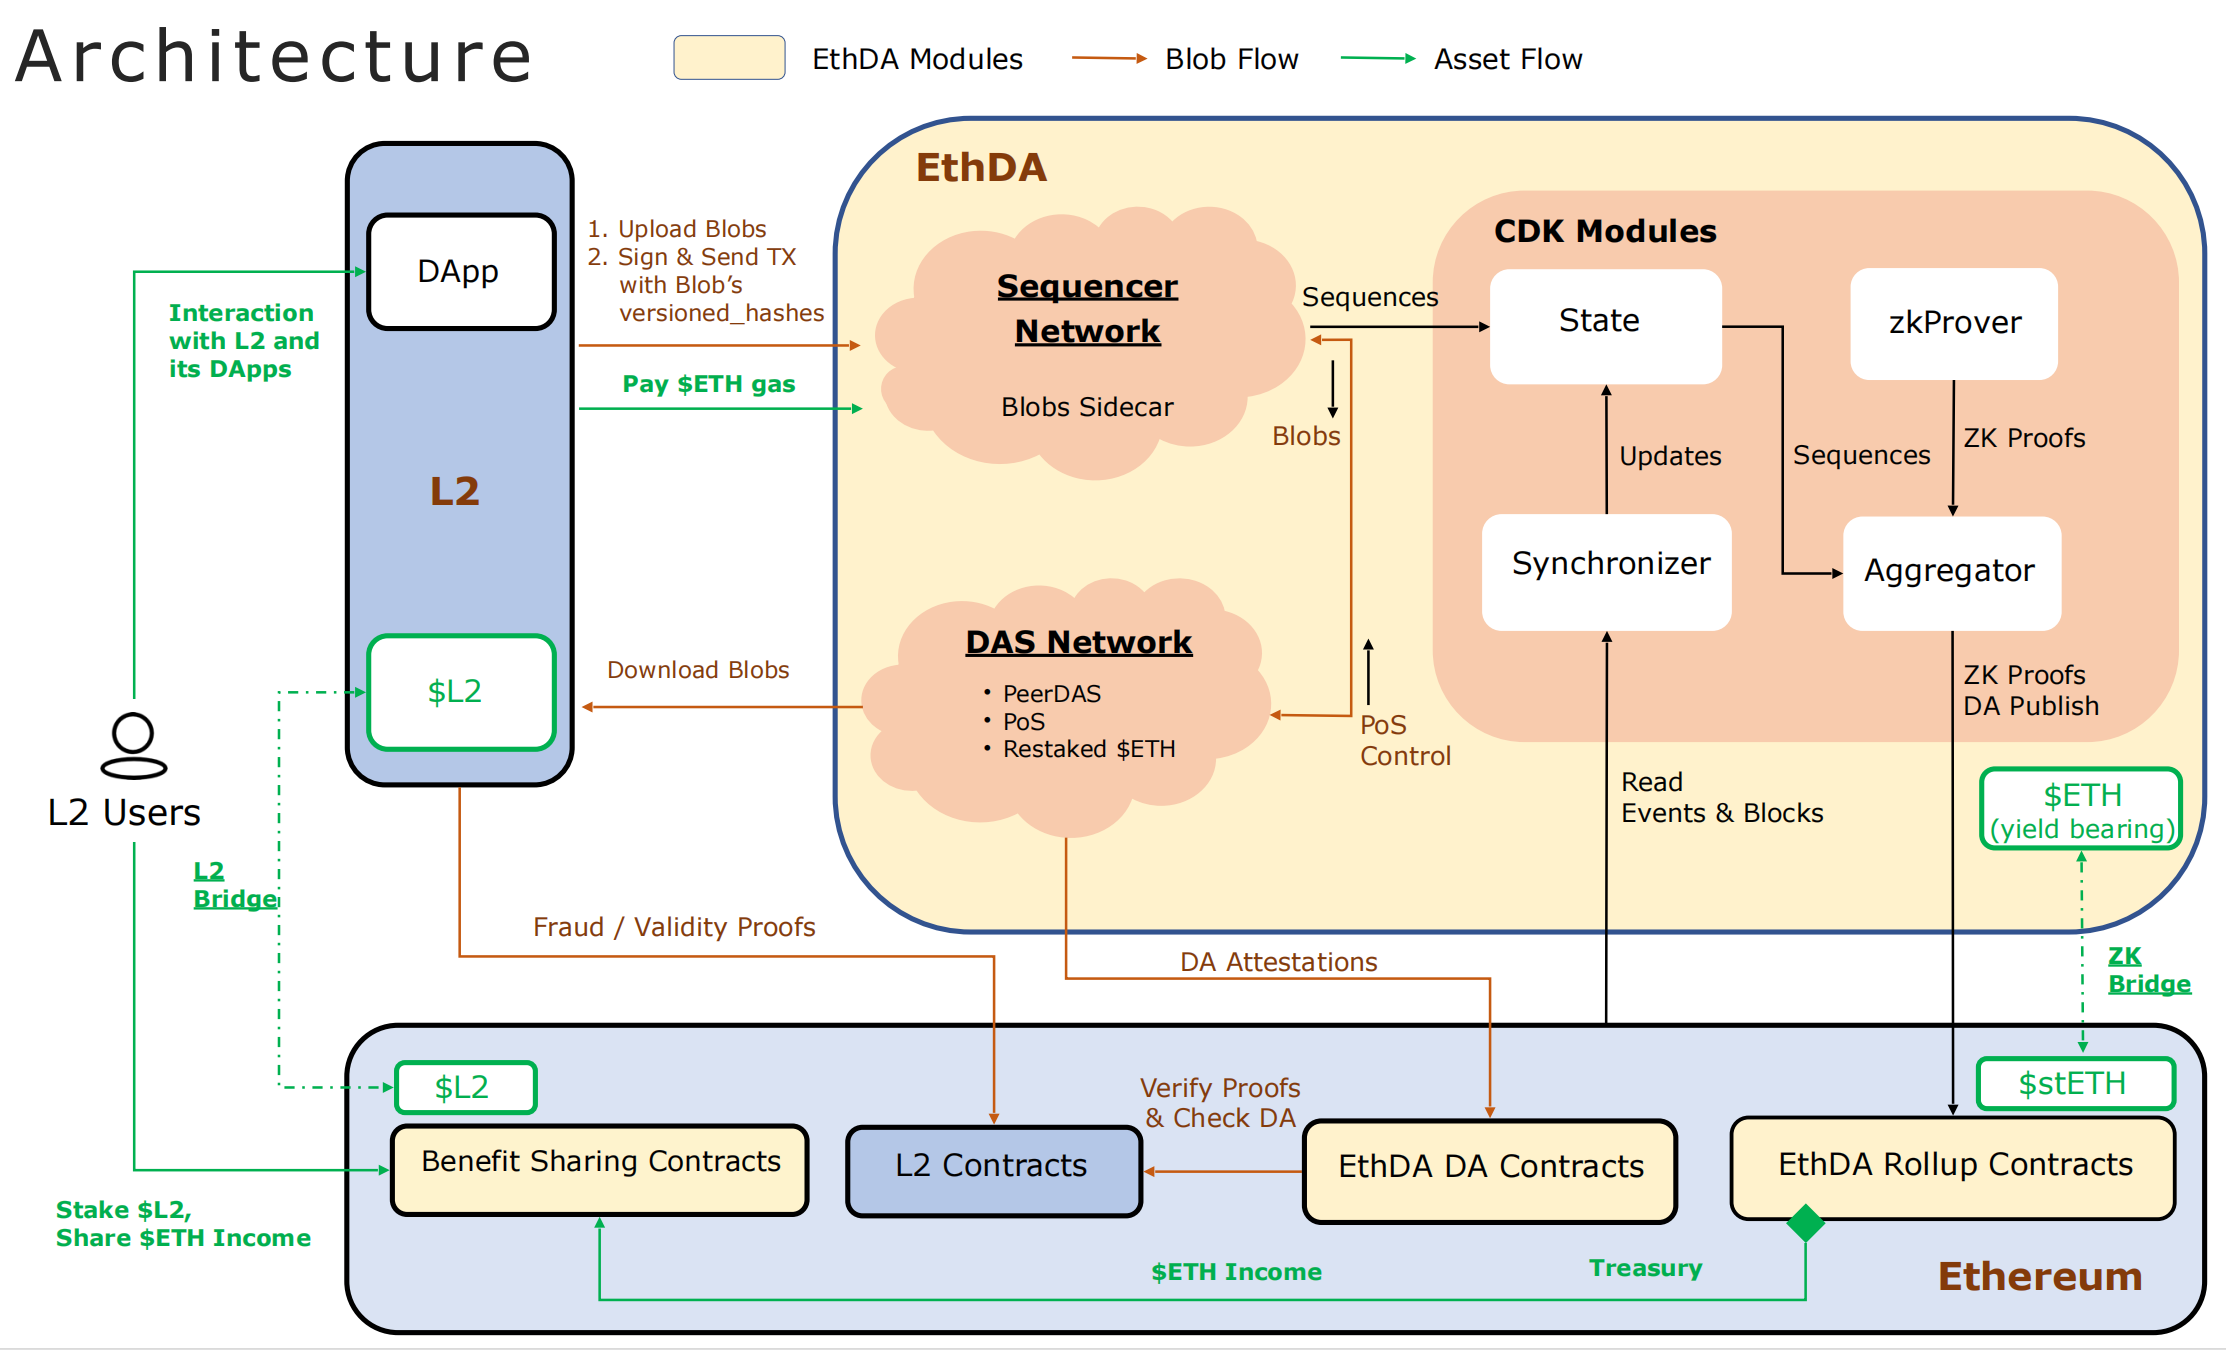
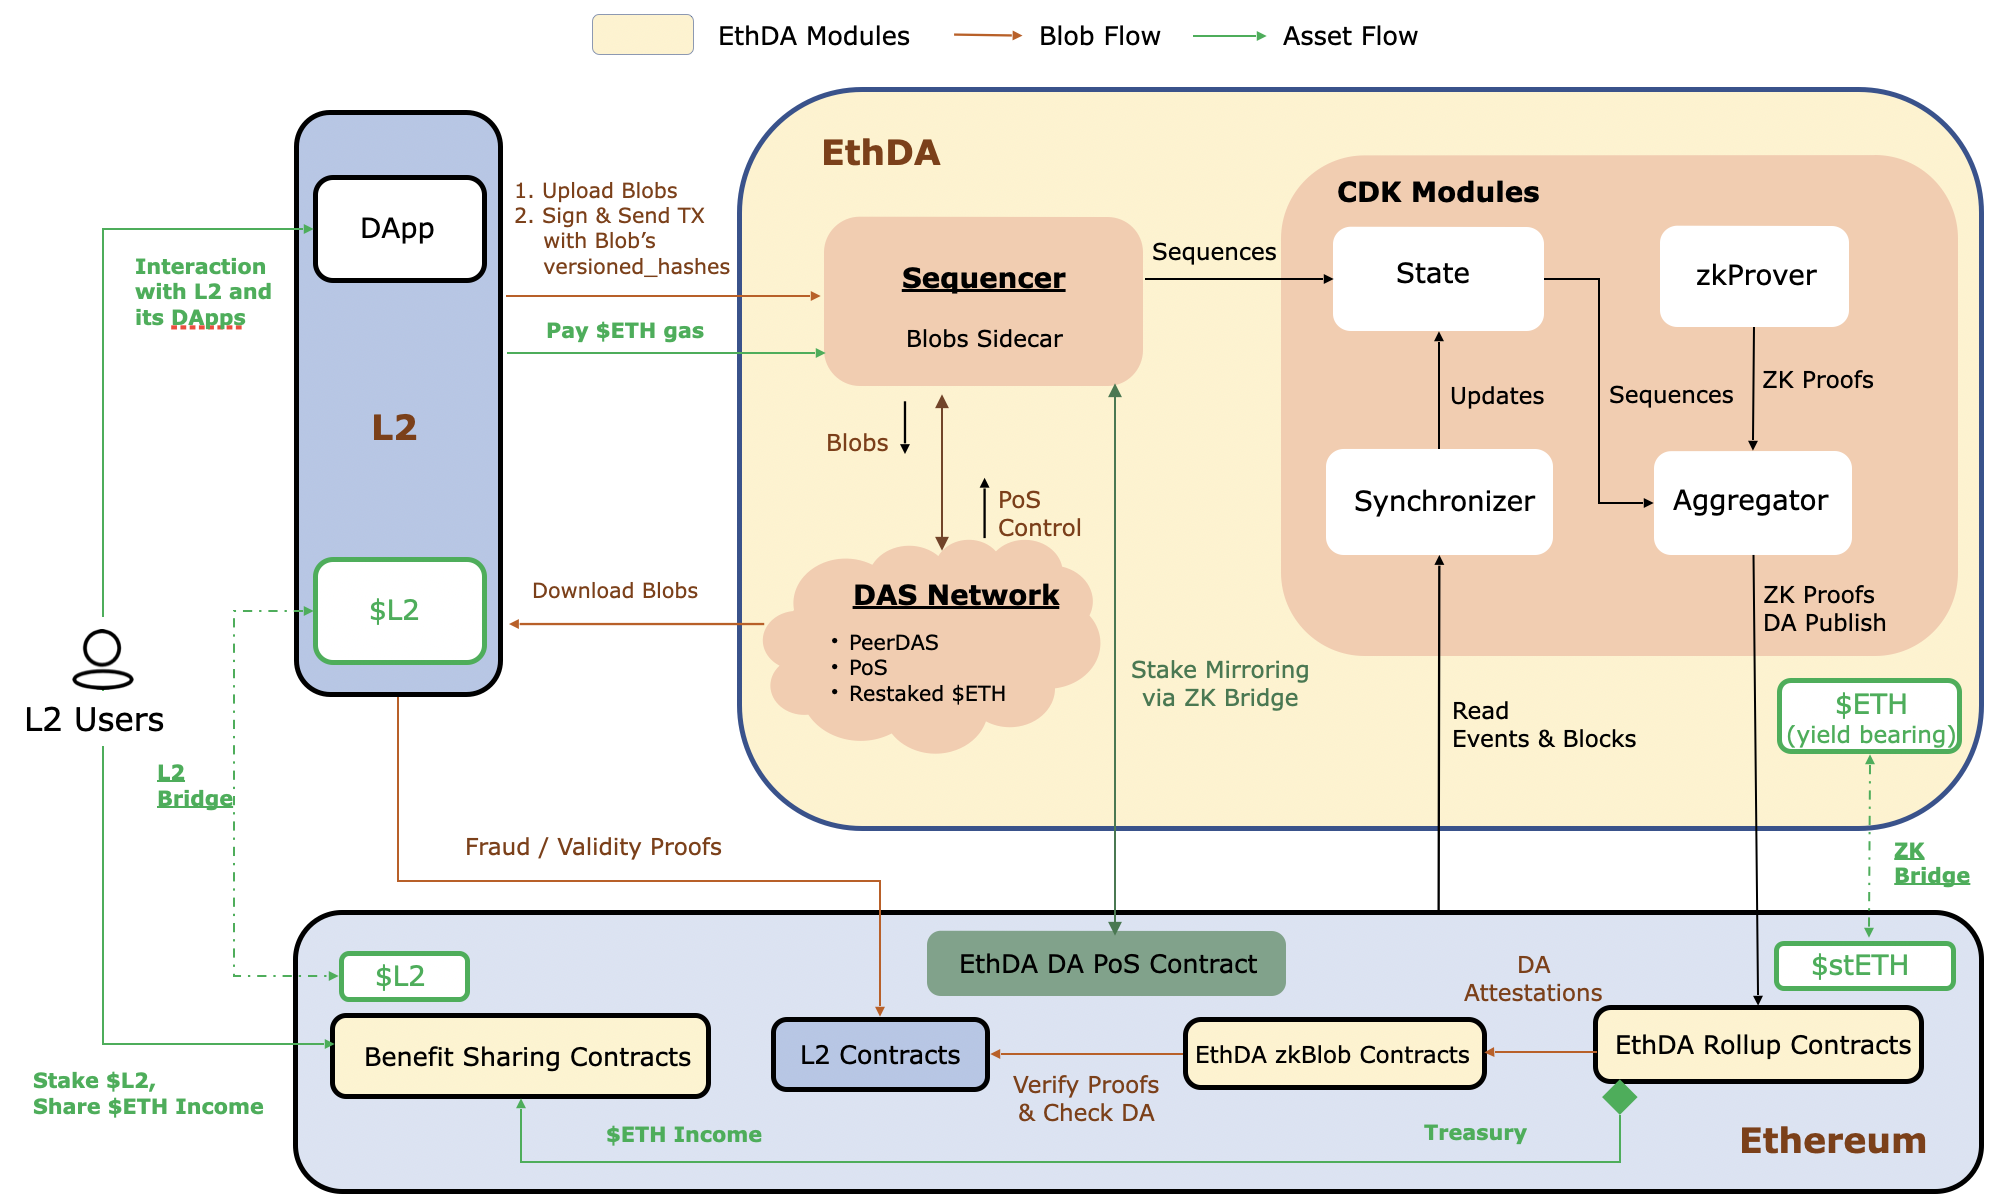
Update zkBlob

diff --git a/sidebars.js b/sidebars.js
@@ -47,7 +47,7 @@ const sidebars = {
     {
       type: 'doc',
       id: 'overview/da',
-      label: 'DA Network'
+      label: 'DAS Network'
     },
     {
       type: 'html',
@@ -80,6 +80,11 @@ const sidebars = {
       type: 'doc',
       id: 'developers/upload-and-download-blobs',
       label: 'Upload & Download Blobs'
+    },
+    {
+      type: 'doc',
+      id: 'developers/integrate-with-zkblob',
+      label: 'Integrate with zkBlob'
     },
     // {
     //   type: 'category',

diff --git a/docs/developers/integrate-with-zkblob.md b/docs/developers/integrate-with-zkblob.md
@@ -1,0 +1,191 @@
+---
+id: integrate-with-zkblob
+title: ''
+hide_table_of_contents: false
+---
+
+:::warning
+This is for the upcoming devnet-2, and does **NOT** work with current devnet-1 yet. We are actively working to deliver it ASAP.
+:::
+
+Rollups can use zkBlob for DA by posting their data to EthDA and then proving that it was posted on Ethereum. This turtorial will define a demo rollup which will outline a very simple zkBlob rollup to illustrate at a high level what this could look like.
+
+## Define a rollup
+
+The first step to starting a new rollup is to define the structure of the commitments that each block consists of.
+
+```go
+type Block struct {
+  // Rollup tx data  that is submitted to EthDA.
+  Txs []json.RawMessage `json:"txs"`
+  // The set of commitments over a block that is submitted to Ethereum.
+  Header `json:"Header"`
+}
+
+type Header struct {
+  Height             uint64         `json:"height"`
+  PreviousHash       []byte         `json:"previous_hash"`
+  SequencerSignature Signature      `json:"sequencer_signature"`
+  BlobSpan           BlobSpan       `json:"blob_span"`
+}
+```
+
+Note the EthDA-specific structure called the `BlobSpan`, which is used to locate the data in the EthDA batch so that we can prove that data's inclusion via zkBlob if needed. `BlobSpan` could be defined like below:
+
+```go
+type BlobSpan struct {
+  EthDABatch uint64 `json:"ethda_batch"`  // EthDA batch number
+  BlobTxHash []byte  `json:"blob_tx_hash"`  // EthDA blob tx hash
+}
+```
+
+## Rollup sequencer
+
+The rollup sequencer is responsible for creating blocks and writing block transaction data to EthDA and Ethereum. The rollup full node is responsible for reading that transaction data from EthDA and verify it. 
+
+We can start by first defining the interfaces of EthDA and Ethereum networks that rollup nodes need to use.
+
+```go
+type EthDAClient interface {
+  // To call RPC methods of EthDA sequencer
+  send(method, params)
+}
+
+type EthClient interface {
+  // GetLatestRollupHeight returns the height of the latest rollup block by querying the appropriate contract on Ethereum.
+  LatestRollupHeight() (uint64, error)
+  // GetHeader returns the rollup header of a specific height.
+  GetHeader(uint64) (Header, error)
+  // SubmitHeader submits a header to the rollup bridge contract on Ethereum.
+  SubmitHeader(Header) error
+}
+```
+
+Here we are waiting for the blob tx to be rollup to Ethereum, however, it would likely be better to simply download that blobs from EthDA instead.
+
+A rollup full node will just consist of some representation of a blockchain along with clients to read from with EthDA and Ethereum.
+
+```go
+type Fullnode struct {
+  Blockchain
+  EthDAClient
+  EthClient
+}
+
+// Sequencer wraps the demo Fullnode struct to add specific functionality for producing blocks.
+type Sequencer struct {
+  Fullnode
+}
+```
+
+### Committing to data
+
+Typical blockchains commit to the transactions included in each block using a Merkle root. Rollups that use zkBlob for DA need to use the commitments that are relayed to the zkBlob contracts. For optimistic rollups, this could be as simple as referencing the data in the EthDA batch. For zk rollups, this would involve creating an inclusion proof to the blob span in the zkBlob contracts and then verifying that proof in the zk proof used to verify state.
+
+### Creating blocks
+
+The first step in creating a block is to post the block data to EthDA. Upon confirmation of the blob tx, a `BlobSpan` could be created which is included in the header and signed over by the sequencer. This `BlobSpan` can be used by contracts on Ethereum that use the zkBlob contracts to prove some specific data was included.
+
+```go
+func (s *Sequencer) ProduceBlock(txs []json.RawMessage) (Block, error) {
+  blobTx = {txs...} // Wrap to a blob tx
+
+  tx, err := s.EthDAClient.send("eth_sendRawTransactions", blobTx)
+  if err != nil {
+    return Block{}, err
+  }
+
+  var lastBlock Block
+  if len(s.Blocks) > 0 {
+    lastBlock = s.Blocks[len(s.Blocks)-1]
+  }
+
+  header := Header{
+    Height:       uint64(len(s.Blocks) + 1),
+    PreviousHash: lastBlock.Header.Hash(),
+    BlobSpan: {
+      EthDABatch: tx.block,
+      BlobTxHash: tx.hash
+    },
+  }
+
+  signature := s.key.Sign(header.SignBytes())
+
+  header.SequencerSignature = signature
+
+  block := Block{
+    Txs:   txs,
+    Header: header,
+  }
+
+  s.AddBlock(block)
+
+  return block, nil
+}
+```
+
+Note that the sequencer here is not yet posting headers to Ethereum. This is because the sequencer is waiting for the EthDA batches to be relayed to the contracts. Once the contracts are updated, the sequencer can post the header to Ethereum.
+
+```go
+func (s *Sequencer) UpdateHeaders() error {
+  latestRollupHeight, err := s.EthClient.LatestRollupHeight()
+  if err != nil {
+    return err
+  }
+
+  for i := latestRollupHeight; i <= uint64(len(s.Blocks)+1); i++ {
+    err := s.EthClient.SubmitHeader(s.Blocks[i].Header)
+    if err != nil {
+      return err
+    }
+  }
+
+  return nil
+}
+```
+
+## Rollup full node
+
+### Downloading the block
+
+There are a few different mechanisms that could be used to download blocks. The simplest solution and what is outlined above is for Fullnodes to wait until the blocks and the headers are posted to the respective chains, and then download each as they are posted. It would also be possible to gossip the headers ahead of time and download the rollup blocks from EthDA instead of waiting for the headers to be posted to Ethereum.
+
+```go
+func (f *Fullnode) AddBlock(b Block) error {
+  if b.Header.Height != uint64(len(f.Blocks)+1) {
+    return fmt.Errorf("failure to add block: expected block height %d, got %d", len(f.Blocks)+1, b.Header.Height)
+  }
+  if !b.Header.SequencerSignature.IsValid(f.SequencerAddress) {
+    return fmt.Errorf("failure to add block: invalid sequencer signature")
+  }
+
+  f.Blocks = append(f.Blocks, b)
+  return nil
+}
+
+func (f *Fullnode) GetLatestBlock() error {
+  nextHeight := uint64(len(f.Blocks) + 1)
+
+  // Download the next header from etheruem before we download the block data
+  // from EthDA. Note that we could alternatievely download the header
+  // directly from the sequencer instead of waiting.
+  header, err := f.EthClient.GetHeader(nextHeight)
+  if err != nil {
+    return err
+  }
+
+  data, err := f.EthDAClient.send("eth_getTransactionByHash", header.BlobSpan.BlobTx)
+  if err != nil {
+    return err
+  }
+
+  return f.AddBlock(
+    Block{
+      Data:   data,
+      Header: header,
+    },
+  )
+}
+```
+
+This outline of a zkBlob rollup isn't doing execution or state transitions induced by the transactions, however, that step would occur here. If fraud is detected, the fraud proof process will begin. The only difference between the fraud proof process of a normal optimistic rollup and a rollup that uses zkBlob for DA is that the full node would first prove the fraudulent transaction was committed to by the Sequencer using the Span in the header and before proceeding with the normal process.

diff --git a/docs/developers/upload-and-download-blobs.md b/docs/developers/upload-and-download-blobs.md
@@ -5,7 +5,7 @@ hide_table_of_contents: false
 ---
 
 :::warning
-Please not that this is for the upcoming devnet-2, and does **NOT** work with current devnet-1 yet. We are actively working to deliver it ASAP.
+This is for the upcoming devnet-2, and does **NOT** work with current devnet-1 yet. We are actively working to deliver it ASAP.
 :::
 
 To submit data to EthDA, users submit blob transactions similar to blob-carrying-transactions introduced by EIP-4844. EthDA blob transactions contain two component, a standard ethereum regular transaction with blob commitments and one or more blobs of data. 
@@ -17,11 +17,13 @@ To submit data to EthDA, users submit blob transactions similar to blob-carrying
 
 Encode raw data to blobs and compute KZG commitments, KZG proofs and versioned hashes.
 
+> For blob encoding implementation in node.js, please refer to https://github.com/crustio/ethda-blobs/blob/main/src/utils/blobs.ts.
+
 ### Step 2: Query blob storage fee
 
-Users could use RPC interface below to query the real-time fee per blob byte:
+Users could use the same execution api added by EIP-4844 to query the base fee per blob gas in wei:
 
-**ethda_estimatePerBlobByteFee**
+**eth_blobBaseFee**
 
 ### Step 3: Construct and sign regular transactions
 
@@ -33,18 +35,19 @@ Blobs storage fee
 
 #### `data`
 
+
 ```JS
 {
-  originator: "...",
-  description: "...",
-  content_type: "...",
-  extra: "...",
+  originator,
+  description,
+  content_type,
+  extra,
   blobs: [
     {
-      content_type: "...",
-      versioned_hash: "...",  // required
-      kzg_commitment: "...", // required
-      kzg_proof: "..." // required
+      content_type,
+      versioned_hash,  // required
+      kzg_commitment, // required
+      kzg_proof // required
     },
     {...}
     ...
@@ -60,7 +63,10 @@ Blobs storage fee
   value,
   data,
   signature,
-  blobs: [..., ...]
+  blobs,
+  blobVersionedHashes,
+  kzgCommitments,
+  kzgProofs
 }
 ```
 

diff --git a/docs/overview/da.md b/docs/overview/da.md
@@ -19,10 +19,10 @@ EthDA employs a decentralized DA network for Blob data storage. The DA network c
 A typical workflow of Alt-DA scenario is like below:
 
 - L2 signs & sends tx with encoded Blobs and *versioned_hashes / kzg_commitments / kzg_proofs* to EthDA Sequencer, and pays Blob storage fees
-- EthDA Sequencer validates and sends Blobs to EthDA DA Network
-- EthDA DA Network stores Blobs, performing DAS, and submits *DA Attestations* to DA Contracts on L1
+- EthDA Sequencer validates and sends Blobs to EthDA DAS Network
+- EthDA DAS Network stores Blobs, performing DAS, and submits *DA Attestations* to DA Contracts on L1
 - EthDA tx flows through EthDA CDK components like zkProver/Aggregator, and is rolluped to L1 with ZK Proofs for settlement
-- L2 downloads Blobs from EthDA DA Network on demand, and sends fraud/validity proofs to its rollup contracts for verification. L2 rollup contracts verify proofs and check *DA attestations* from EthDA DA Contracts on L1.
+- L2 downloads Blobs from EthDA DAS Network on demand, and sends fraud/validity proofs to its rollup contracts for verification. L2 rollup contracts verify proofs and check *DA attestations* from EthDA DA Contracts on L1.
 
 
 <!-- ## Overview
